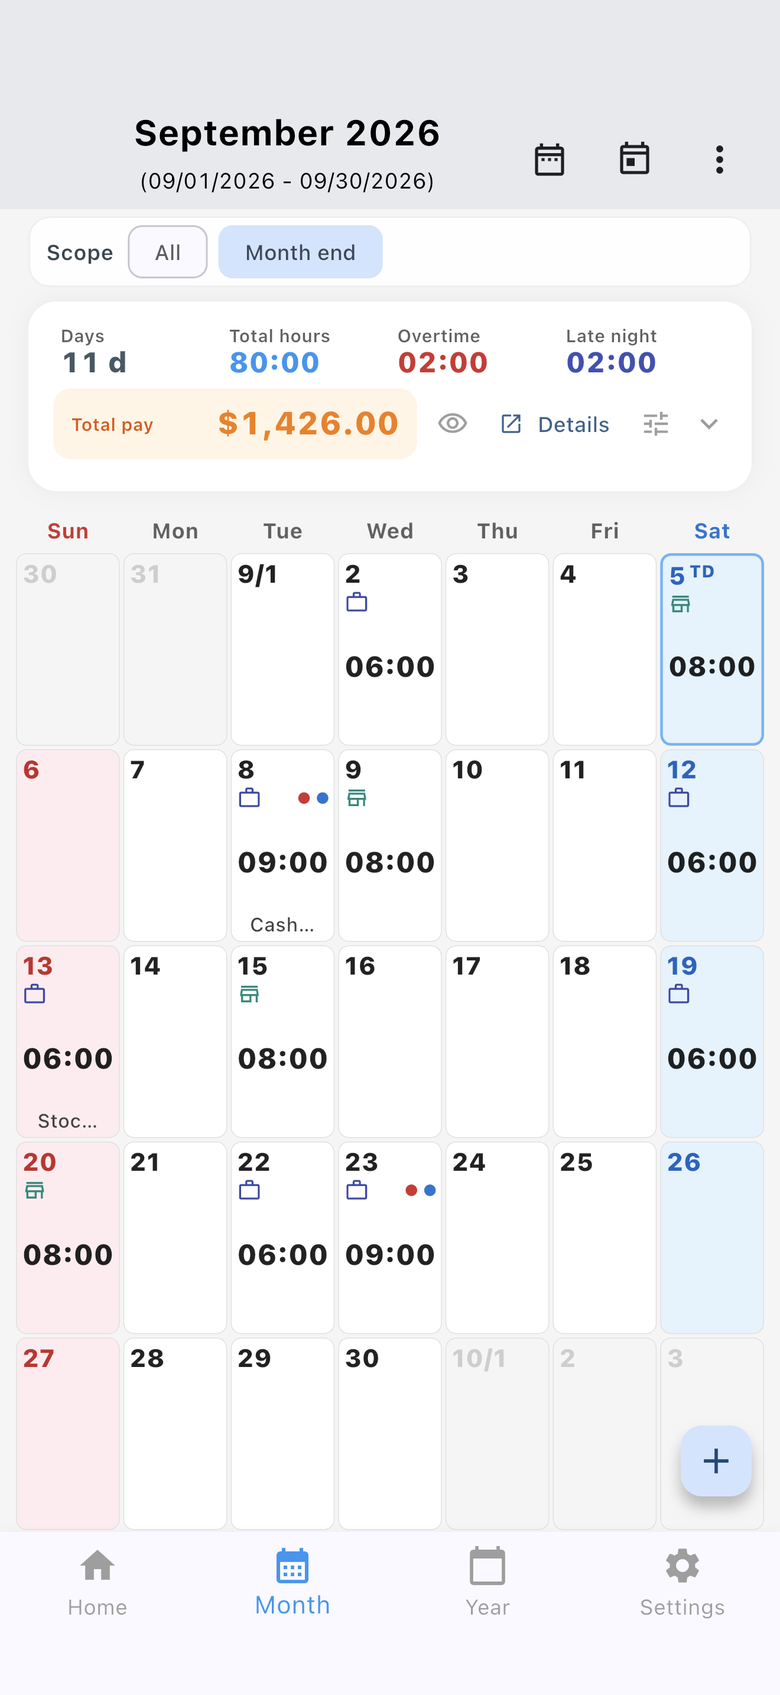
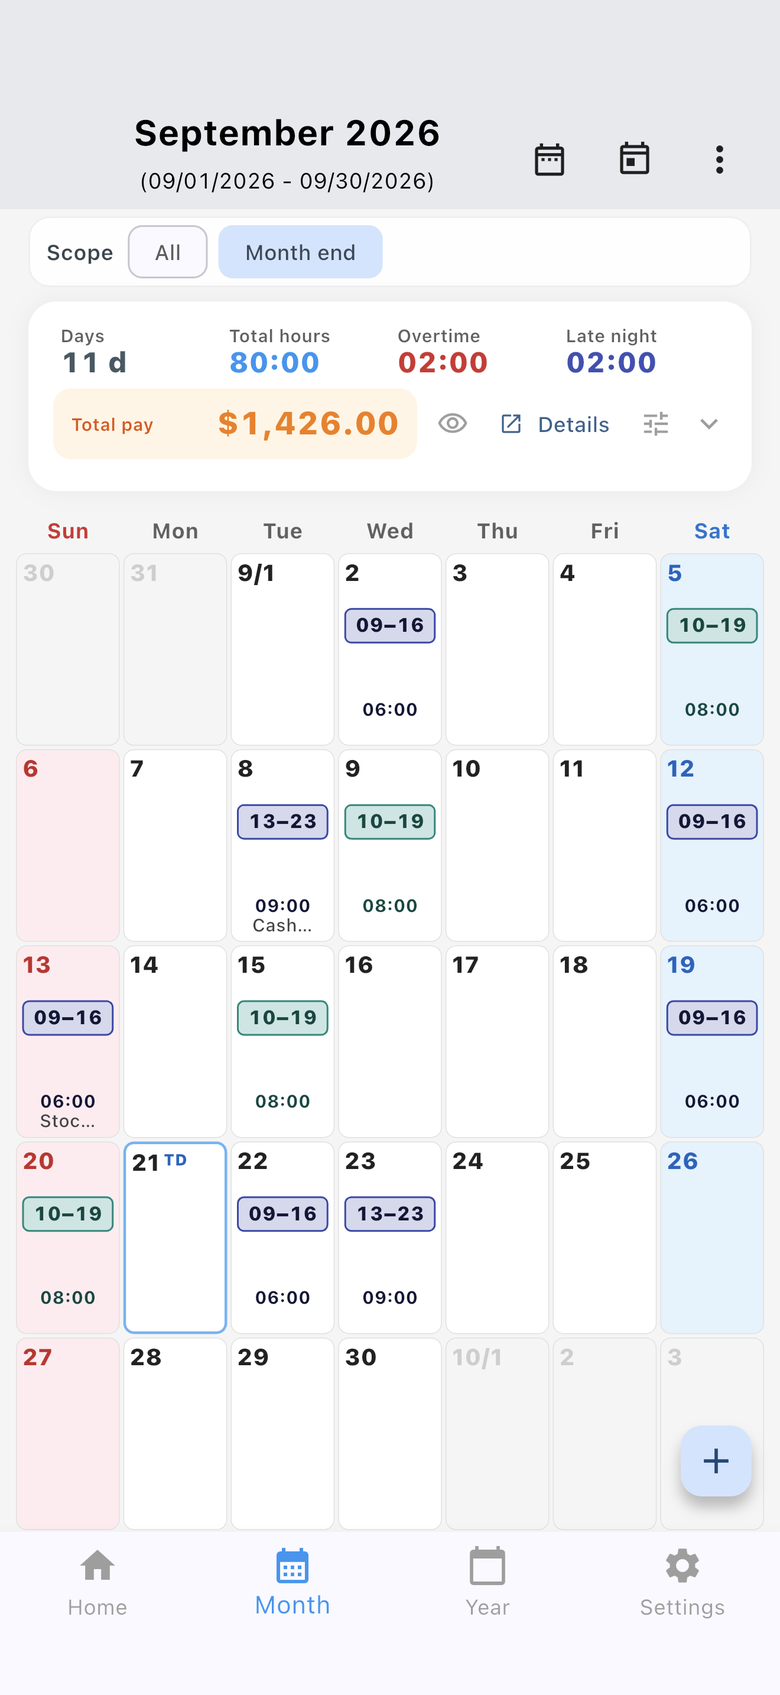
3.4.0のカレンダー時間帯とシフト予定を紹介サイトに反映する 最新情報と使い方を日英で更新し、カレンダー画像も時間帯表示に差し替えた。

diff --git a/index.html b/index.html
@@ -178,7 +178,7 @@
                 "name": "月次はカレンダーでも見られますか？",
                 "acceptedAnswer": {
                   "@type": "Answer",
-                  "text": "はい。月次タブで一覧とカレンダーを切り替えられます。カレンダーでは日付ごとの稼働時間、祝日名、給与合計を確認できます。"
+                  "text": "はい。月次タブで一覧とカレンダーを切り替えられます。カレンダーでは始業から終業の時間帯、日本語表示のときの祝日名、給与合計を確認できます。時間帯と稼働時間は切り替えられます。"
                 }
               }
             ]
@@ -278,7 +278,7 @@
                 src="assets/screenshots/ja/month-calendar.png"
                 width="336"
                 height="730"
-                alt="月次カレンダー：日ごとの稼働時間と給与合計"
+                alt="月次カレンダー：日ごとの時間帯と給与合計"
               />
             </figure>
           </div>
@@ -318,28 +318,31 @@
         <div class="container">
           <h2 class="section-title">最新情報</h2>
           <p class="section-lead">
-            Ver. 3.2.0 の主なアップデートです。ストアの「最新情報」と同じ内容を掲載しています。
+            Ver. 3.4.0 の主なアップデートです。ストアの「最新情報」と同じ内容を掲載しています。
           </p>
           <div class="whats-new-grid">
             <article class="whats-new-card">
               <header class="whats-new-header">
-                <span class="whats-new-version">Ver. 3.2.0</span>
-                <span class="whats-new-date">2026年7月</span>
+                <span class="whats-new-version">Ver. 3.4.0</span>
+                <span class="whats-new-date">2026年9月</span>
               </header>
               <ul class="whats-new-list">
                 <li>
-                  <strong>月次カレンダー</strong>
-                  — 月次画面にカレンダー表示を追加。一覧との切り替えもできます。日付ごとの稼働、祝日名、給与合計が一目で分かります。
+                  <strong>カレンダーの時間帯</strong>
+                  — 各日に始業から終業（例: 09–16）を表示します。稼働時間への切り替えは、月次画面のメニューかアプリ基本設定からできます。
                 </li>
                 <li>
-                  <strong>広告オフ特典</strong>
-                  — 短い動画広告を視聴すると、48時間アプリ内の広告を非表示にできます。
+                  <strong>シフト予定（任意）</strong>
+                  — 「シフト予定を使う」はオフが初期状態です。オンにすると、未来の勤務を予定として登録できます。オフのときは今までどおり実績として登録します。
                 </li>
                 <li>
-                  <strong>カレンダーの使いやすさ</strong>
-                  — 祝日名の表示や、勤務先の一括登録がカレンダー表示でも使えます。
+                  <strong>予定と実績の見分け</strong>
+                  — 予定だけの日は、カレンダーでは破線、一覧では「予」です。給与合計は実績だけを数えます。
                 </li>
-                <li>その他、表示と操作性の改善</li>
+                <li>
+                  <strong>一括登録</strong>
+                  — 予定だけの日があるときは確認のうえ、勤務先の時刻で実績に置き換えられます。実績がある日と有給の日は上書きしません。
+                </li>
               </ul>
               <p class="whats-new-more">
                 操作の詳細は
@@ -353,7 +356,7 @@
                   src="assets/screenshots/ja/month-calendar.png"
                   width="230"
                   height="500"
-                  alt="2026年9月の月次カレンダー。稼働80時間、給与合計10万2100円"
+                  alt="2026年9月の月次カレンダー。時間帯と給与合計10万2100円"
                   loading="lazy"
                 />
               </div>
@@ -385,7 +388,7 @@
             <article class="feature">
               <h3>月次一覧・カレンダー</h3>
               <p>
-                一覧とカレンダーを切り替え。日ごとの稼働、残業・深夜、祝日名、給与の目安まで確認できます。
+                一覧とカレンダーを切り替え。日ごとの時間帯や稼働、残業・深夜、祝日名、給与の目安まで確認できます。シフト予定は必要なときだけオンにできます。
               </p>
             </article>
             <article class="feature">
@@ -457,7 +460,7 @@
             <details class="faq-item">
               <summary>月次はカレンダーでも見られますか？</summary>
               <p>
-                はい。月次タブで<strong>一覧</strong>と<strong>カレンダー</strong>を切り替えられます。カレンダーでは日付ごとの稼働時間、祝日名、給与合計を確認できます。
+                はい。月次タブで<strong>一覧</strong>と<strong>カレンダー</strong>を切り替えられます。カレンダーでは始業から終業の時間帯、日本語表示のときの祝日名、給与合計を確認できます。時間帯と稼働時間は切り替えられます。
               </p>
             </details>
           </div>
@@ -523,7 +526,7 @@
               <figure class="phone-frame">
                 <img
                   src="assets/screenshots/ja/month-calendar.png"
-                  alt="月次カレンダー。日付ごとの稼働時間、祝日、給与合計"
+                  alt="月次カレンダー。日付ごとの時間帯、祝日、給与合計"
                   loading="lazy"
                   width="390"
                   height="847"
@@ -536,7 +539,8 @@
                   一覧と同じ集計を、カレンダーでも確認できます。右上のアイコンや設定から切り替えられます。
                 </p>
                 <ul>
-                  <li>日付セルにその日の稼働時間と勤務先アイコン</li>
+                  <li>日付セルにその日の時間帯と勤務先の色</li>
+                  <li>稼働時間への切り替えも、メニューからできます</li>
                   <li>日本語表示では国民の祝日名も表示</li>
                   <li>給与合計や残業・深夜も、一覧と同じサマリーで確認</li>
                 </ul>

diff --git a/index-en.html b/index-en.html
@@ -177,7 +177,7 @@
                 "name": "Can I see the month as a calendar?",
                 "acceptedAnswer": {
                   "@type": "Answer",
-                  "text": "Yes. The Month tab switches between a list and a calendar. The calendar shows daily hours, holiday names, and total pay."
+                  "text": "Yes. The Month tab switches between a list and a calendar. The calendar shows each day's start-to-end time range and total pay. Japanese holiday names appear when the app language is Japanese. You can switch the calendar to hours worked."
                 }
               }
             ]
@@ -276,7 +276,7 @@
                 src="assets/screenshots/en/month-calendar.png"
                 width="336"
                 height="730"
-                alt="Monthly calendar with daily hours and total pay"
+                alt="Monthly calendar with daily time ranges and total pay"
               />
             </figure>
           </div>
@@ -316,28 +316,34 @@
         <div class="container">
           <h2 class="section-title">What's new</h2>
           <p class="section-lead">
-            Highlights from Ver. 3.2.0 — the same updates shown in the App Store and Google Play release notes.
+            Highlights from Ver. 3.4.0 — the same updates shown in the App Store and Google Play release notes.
           </p>
           <div class="whats-new-grid">
             <article class="whats-new-card">
               <header class="whats-new-header">
-                <span class="whats-new-version">Ver. 3.2.0</span>
-                <span class="whats-new-date">July 2026</span>
+                <span class="whats-new-version">Ver. 3.4.0</span>
+                <span class="whats-new-date">September 2026</span>
               </header>
               <ul class="whats-new-list">
                 <li>
-                  <strong>Monthly calendar</strong>
-                  — Added a calendar view on the Month tab, with easy switching to the list. See daily hours, holiday names, and total pay at a glance.
+                  <strong>Calendar time range</strong>
+                  — Each day can show a start-to-end range (for example 09–16). Switch to hours worked from the Month menu or App basic settings.
                 </li>
                 <li>
-                  <strong>Ad-free benefit</strong>
-                  — Watch a short rewarded video to hide in-app ads for 48 hours.
+                  <strong>Planned shifts (optional)</strong>
+                  — Use planned shifts is off by default. Turn it on to save future days as plans. Off keeps saving every day as actual times.
                 </li>
                 <li>
-                  <strong>Calendar convenience</strong>
-                  — Holiday names and bulk workplace registration now work in calendar view.
+                  <strong>Plans vs actual times</strong>
+                  — Planned-only days use a dashed chip on the calendar and a P badge in the list. Total pay counts actual times only.
                 </li>
-                <li>Other display and usability improvements</li>
+                <li>
+                  <strong>Bulk add</strong>
+                  — If planned-only days are included, you can confirm and replace them with the workplace schedule. Existing actual times and paid leave are not overwritten.
+                </li>
+                <li>
+                  Japanese public holiday names are hidden when the app language is English.
+                </li>
               </ul>
               <p class="whats-new-more">
                 See the
@@ -351,7 +357,7 @@
                   src="assets/screenshots/en/month-calendar.png"
                   width="230"
                   height="500"
-                  alt="September 2026 monthly calendar with 80 hours and $1,426.00 total pay"
+                  alt="September 2026 monthly calendar with time ranges and $1,426.00 total pay"
                   loading="lazy"
                 />
               </div>
@@ -383,7 +389,7 @@
             <article class="feature">
               <h3>Monthly list &amp; calendar</h3>
               <p>
-                Switch between list and calendar. See daily hours, overtime, late night, holidays, and estimated pay.
+                Switch between list and calendar. See daily time ranges or hours, overtime, late night, and estimated pay. Planned shifts are optional.
               </p>
             </article>
             <article class="feature">
@@ -455,7 +461,7 @@
             <details class="faq-item">
               <summary>Can I see the month as a calendar?</summary>
               <p>
-                Yes. The Month tab switches between a <strong>list</strong> and a <strong>calendar</strong>. The calendar shows daily hours, holiday names, and total pay.
+                Yes. The Month tab switches between a <strong>list</strong> and a <strong>calendar</strong>. The calendar shows each day's start-to-end time range and total pay. Japanese holiday names appear when the app language is Japanese. You can switch the calendar to hours worked.
               </p>
             </details>
           </div>
@@ -521,7 +527,7 @@
               <figure class="phone-frame">
                 <img
                   src="assets/screenshots/en/month-calendar.png"
-                  alt="Monthly calendar with daily hours, holiday shading, and total pay"
+                  alt="Monthly calendar with daily time ranges and total pay"
                   loading="lazy"
                   width="390"
                   height="847"
@@ -534,8 +540,9 @@
                   The same totals are available in calendar view. Switch from the icons on the Month tab or in Settings.
                 </p>
                 <ul>
-                  <li>Daily hours and workplace icons on each date</li>
-                  <li>Holiday names when the app language is Japanese</li>
+                  <li>Start-to-end time ranges and workplace colors on each date</li>
+                  <li>Switch to hours worked from the Month menu</li>
+                  <li>Japanese holiday names appear only when the app language is Japanese</li>
                   <li>The same pay and overtime summary as the list</li>
                 </ul>
               </div>

diff --git a/help.html b/help.html
@@ -293,20 +293,32 @@
                 <strong>＋</strong>ボタンで、手動で勤怠を追加することもできます。
               </li>
               <li>
-                カレンダー表示では、日本語 UI 時に<strong>国民の祝日名</strong>が日付セルに表示されます。勤務先の<strong>一括登録</strong>も利用できます。
+                カレンダー表示では、各日に<strong>始業から終業の時間帯</strong>を出します。稼働時間への切り替えは、右上メニューか<strong>アプリの基本設定</strong>の「カレンダーの時間表示」です。
+              </li>
+              <li>
+                日本語 UI では<strong>国民の祝日名</strong>が日付セルに表示されます。英語 UI では祝日名は出しません。
+              </li>
+              <li>
+                <strong>シフト予定を使う</strong>（アプリの基本設定）はオフが初期状態です。オンにすると、今日よりあとの日でまだ実績がない登録は予定になります。出勤すると実績になります。給与合計は実績だけを数えます。
+              </li>
+              <li>
+                予定だけの日は、カレンダーでは破線、一覧では「予」です。一括登録では確認のうえ、勤務先の時刻で実績に置き換えられます。
+              </li>
+              <li>
+                勤務先の<strong>一括登録</strong>も利用できます。
               </li>
             </ul>
             <figure class="guide-shot">
               <div class="phone-frame">
                 <img
                   src="assets/screenshots/ja/month-calendar.png"
-                  alt="月次カレンダー。日付ごとの稼働時間と祝日名"
+                  alt="月次カレンダー。日付ごとの時間帯と祝日名"
                   width="240"
                   height="521"
                   loading="lazy"
                 />
               </div>
-              <figcaption>カレンダーでは、日ごとの稼働と祝日名、給与合計を確認できます。</figcaption>
+              <figcaption>カレンダーでは、日ごとの時間帯と祝日名、給与合計を確認できます。</figcaption>
             </figure>
           </section>
 
@@ -392,7 +404,7 @@
               <dt>ホーム画面ウィジェット</dt>
               <dd>ウィジェット打刻用の勤務先、月次給与の表示など（下記）。</dd>
               <dt>アプリの基本設定</dt>
-              <dd>表示デザイン、言語、<strong>月次の表示</strong>（一覧 / カレンダー）など。</dd>
+              <dd>表示デザイン、言語、<strong>月次の表示</strong>（一覧 / カレンダー）、<strong>カレンダーの時間表示</strong>、<strong>シフト予定</strong>など。</dd>
               <dt>メール配信設定</dt>
               <dd>月次データのエクスポート・共有（下記）。</dd>
               <dt>お疲れ様カード</dt>

diff --git a/help-en.html b/help-en.html
@@ -287,20 +287,32 @@
               <li>You may move to the previous or next month with arrows or swipe.</li>
               <li>Use <strong>+</strong> to add a record manually.</li>
               <li>
-                In calendar view, <strong>Japanese public holiday names</strong> appear on day cells when the app language is Japanese. <strong>Bulk workplace registration</strong> is also available.
+                In calendar view, each day shows a <strong>start-to-end time range</strong>. Switch to hours worked from the overflow menu, or under <strong>App settings</strong> → Calendar time display.
+              </li>
+              <li>
+                <strong>Japanese public holiday names</strong> appear only when the app language is Japanese.
+              </li>
+              <li>
+                <strong>Use planned shifts</strong> (App settings) is off by default. When it is on, a future day with no actual start time is saved as a plan. Clocking in turns it into actual times. Total pay counts actual times only.
+              </li>
+              <li>
+                Planned-only days use a dashed chip on the calendar and a P badge in the list. Bulk add can replace them with the workplace schedule after you confirm.
+              </li>
+              <li>
+                <strong>Bulk workplace registration</strong> is also available.
               </li>
             </ul>
             <figure class="guide-shot">
               <div class="phone-frame">
                 <img
                   src="assets/screenshots/en/month-calendar.png"
-                  alt="Monthly calendar with daily hours and holiday shading"
+                  alt="Monthly calendar with daily time ranges"
                   width="240"
                   height="521"
                   loading="lazy"
                 />
               </div>
-              <figcaption>Calendar view shows daily hours, holidays, and total pay.</figcaption>
+              <figcaption>Calendar view shows daily time ranges and total pay.</figcaption>
             </figure>
           </section>
 
@@ -370,7 +382,7 @@
               <dt>Home screen widget</dt>
               <dd>Workplace used for widget punches, optional monthly pay on widget (below).</dd>
               <dt>App settings</dt>
-              <dd>Appearance, language, and <strong>monthly view</strong> (list / calendar).</dd>
+              <dd>Appearance, language, <strong>monthly view</strong> (list / calendar), <strong>calendar time display</strong>, and <strong>planned shifts</strong>.</dd>
               <dt>Mail delivery settings</dt>
               <dd>Export monthly data and share via the system share sheet (below).</dd>
               <dt>Otsukare card (share card)</dt>
